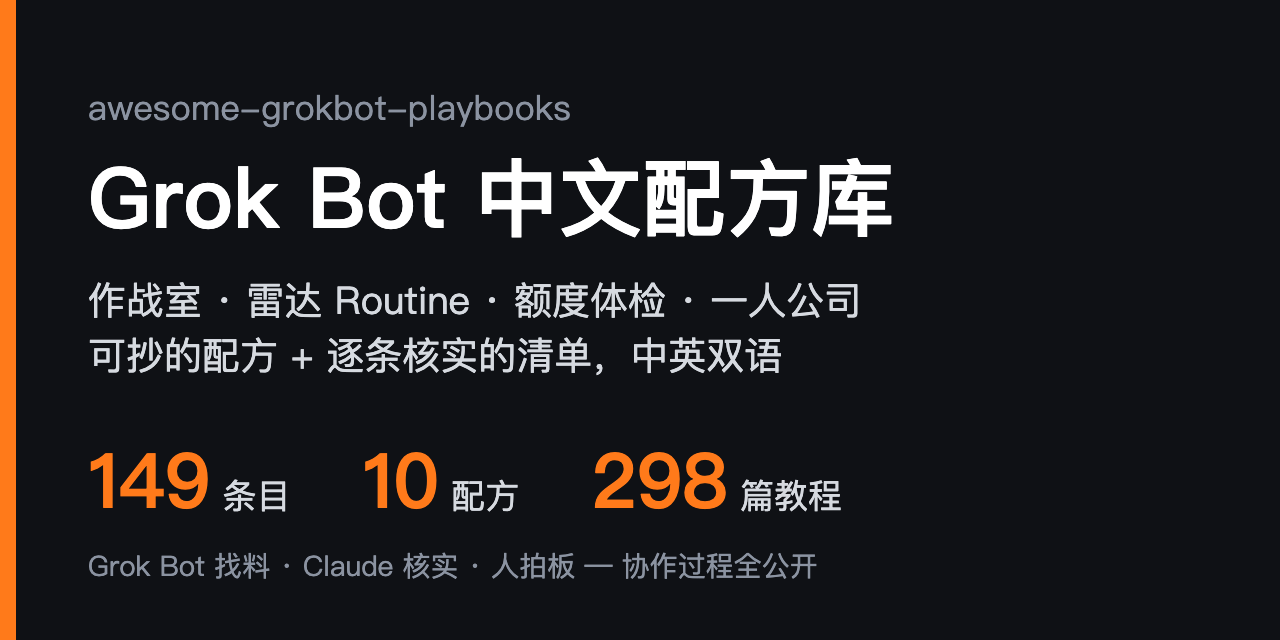
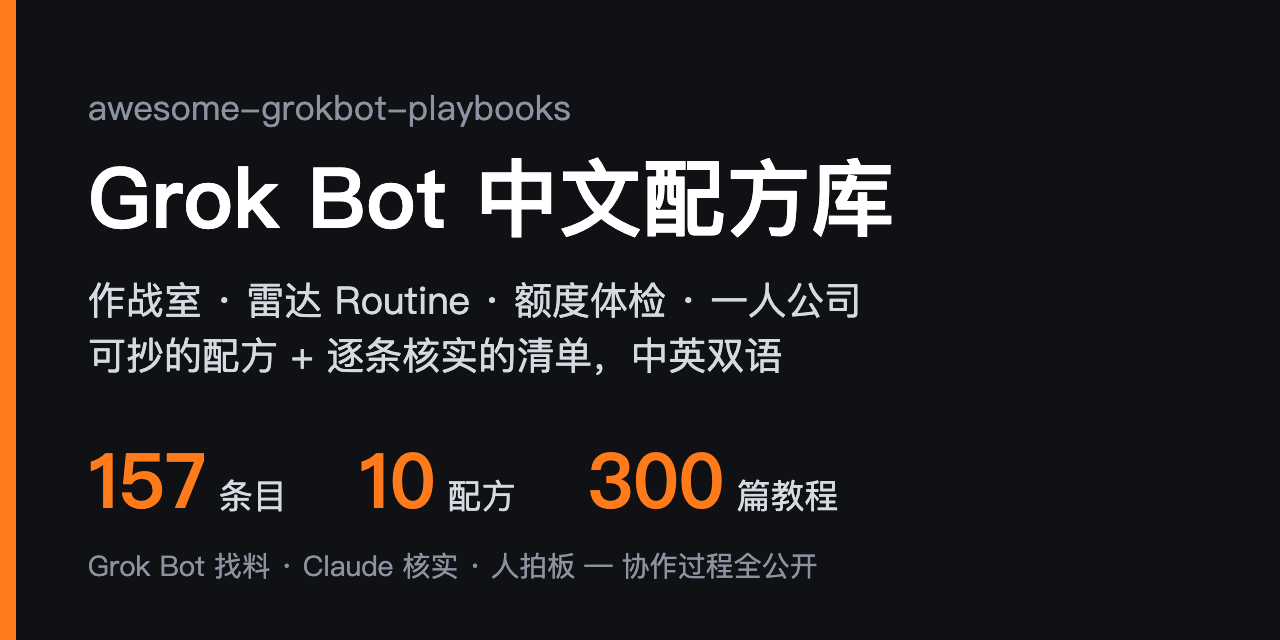
collab: loop #86 README 149 -> 157 (8 recheck repos pass), x-articles 265 -> 267, defer 6, reject 3

Changed region(s): [[0.4375, 0.7188, 0.6562, 0.8125], [0.0938, 0.6875, 0.25, 0.8125], [0.2812, 0.7188, 0.4062, 0.8125]]

diff --git a/README.en.md b/README.en.md
@@ -8,9 +8,9 @@
 
 <p align="center">
   <a href="https://github.com/sit-in/awesome-grokbot-playbooks/stargazers"><img src="https://img.shields.io/github/stars/sit-in/awesome-grokbot-playbooks?style=flat-square&color=ff7a1a" alt="Stars"></a>
-  <img src="https://img.shields.io/badge/entries-149-blue?style=flat-square" alt="Entries">
+  <img src="https://img.shields.io/badge/entries-157-blue?style=flat-square" alt="Entries">
   <img src="https://img.shields.io/badge/recipes-10-blueviolet?style=flat-square" alt="Recipes">
-  <img src="https://img.shields.io/badge/last%20verified-2026--10--30-success?style=flat-square" alt="Last verified">
+  <img src="https://img.shields.io/badge/last%20verified-2026--10--31-success?style=flat-square" alt="Last verified">
   <a href="https://github.com/sit-in/awesome-grokbot-playbooks/actions/workflows/link-check.yml"><img src="https://github.com/sit-in/awesome-grokbot-playbooks/actions/workflows/link-check.yml/badge.svg" alt="link-check"></a>
   <a href="CONTRIBUTING.en.md"><img src="https://img.shields.io/badge/PRs-welcome-brightgreen?style=flat-square" alt="PRs welcome"></a>
   <img src="https://img.shields.io/badge/unofficial-lightgrey?style=flat-square" alt="Unofficial">
@@ -25,10 +25,10 @@
 
 | | |
 |---:|---|
-| **149** | entries, each checked via the GitHub API or the live page: it exists, is still maintained and is actually about Grok Bot; license caveats are noted in the review |
+| **157** | entries, each checked via the GitHub API or the live page: it exists, is still maintained and is actually about Grok Bot; license caveats are noted in the review |
 | **10** | copy-paste recipes in one format: scenario → inputs → steps → prompt → output → pitfalls, all examples sanitized |
 | **3 levels** | of verification: ✅ run end-to-end · 🔍 docs and config reviewed · no mark = repo verified only. ✅ is only for things actually run |
-| **298** | curated community tutorials and X articles ([33 tutorials](docs/community-tutorials.md) + [265 articles from top X creators](docs/x-articles.md)) plus the maintainer's own series, each checked for liveness, author and date |
+| **300** | curated community tutorials and X articles ([33 tutorials](docs/community-tutorials.md) + [267 articles from top X creators](docs/x-articles.md)) plus the maintainer's own series, each checked for liveness, author and date |
 | **2 AIs** | maintain it: Grok Bot scouts daily, Claude Code verifies and writes reviews, a human makes the calls. The full log is public in [`.collab/`](.collab/README.md) |
 
 Compared with the English ecosystem index [awesome-grok-bot](https://github.com/ZeroPointRepo/awesome-grok-bot), which is broad, this repo focuses on **solo founders, multi-bot war rooms, radar routines and copy-paste recipes**. Quality over quantity.
@@ -61,9 +61,9 @@ It is a different product from the Grok chat assistant and the Grok Build coding
 
 ## 🆕 Recently added
 
+- **10-31** Added eight: Windows desktop bot beacons [Bot Beacons](https://github.com/SnazzyGaz/bot-beacons), encrypted incremental cloud-computer backups [Grok Box](https://github.com/dorukardahan/grokbox), terminal agents handing tasks to bots with [grokctl](https://github.com/lucasjsbarbosa/grokctl), a task mailbox shared by Claude and bots [agent-relay](https://github.com/pawelmical/agent-relay), the Tesla status plugin [Vehicle Fleet](https://github.com/matthew-rutledge-dev/grokbot-vehicle-fleet), a local quota check-in dashboard [Usage & Check-in](https://github.com/yuehzhan/grokbot-usage-checkin), a rescue kit for templates missing skills [Unfinished Botness](https://github.com/brefledev/unfinished-botness) and a template repo that pulls the latest skill every run [grokbot-skills (datadda27)](https://github.com/datadda27/grokbot-skills)
 - **10-30** Added one: paced directory-backlink playbook [backlink-pilot](https://github.com/s87343472/backlink-pilot); removed grok-starter-kit after its repo was deleted; X articles grew to 265
 - **10-29** Added nine: bot moving kit [personal-agent-dossier](https://github.com/AidaShika/personal-agent-dossier), the 7,500-bot public directory [grokbot.rocks](https://grokbot.rocks/), WeChat DM bridge [grokbot-weixin](https://github.com/ericyangpan/grokbot-weixin), [stampede](https://github.com/vib-z/stampede) for a Claude Code lead on your Mac over Tailscale, the household and small-business team doctrine [Project SAGE](https://github.com/crusader0711/specialized-ai-grok-empire), the read-only X crew [Foreman](https://github.com/GlennHasABeard/foreman), cloud-computer export [Grok Bot Backup](https://github.com/company-notes/grok-bot-backup), a read-only [Tesla MCP](https://github.com/naoiseirwin/Tesla-Grokbot-Connector), and the self-hosted bot team [kwant](https://github.com/alexsergivan/kwant); X articles grew to 252
-- **10-28** Added seven: the [Chief of Staff](https://github.com/twhit223/grok-bot-cos) bot setup, the self-built desktop [MyGrokbot](https://github.com/DynamaxVV/mygrokbot-host), a Chinese [Grok Bot handbook](https://github.com/AIPMAndy/grok-bot-handbook), and a [repro and guardrail](https://github.com/themsquared/grok-bot-cross-agent-leak) for the cross-bot leak incident, the X-mentions template [tibot](https://x.ai/bot/xZ4wRvomWqzCXnyYFr7i3), [Command Line](https://x.ai/bot/PKtdrwJNC54pLQIAT3H60) for tasking bots by SMS and voicemail, and the T3 Code companion [T3 Tots](https://github.com/Deepusleepy/t3-tots); X articles grew to 232
 
 Full history: [README commits](https://github.com/sit-in/awesome-grokbot-playbooks/commits/main/README.md).
 
@@ -71,9 +71,9 @@ Full history: [README commits](https://github.com/sit-in/awesome-grokbot-playboo
 
 - [Official & SDK](#-official--sdk) (6) - official docs, marketplace, SDKs and CLIs
 - [Templates & directories](#-templates--directories) (15) - template libraries, bot-share indexes and use-case sites; check here first
-- [Skills & Playbooks](#-skills--playbooks) (49) - skills, MCP, single templates, copy-paste profiles
-- [Multi-bot teams](#-multi-bot-teams) (31) - war rooms, coordinators, multi-agent work
-- [Routines & Digests](#-routines--digests) (10) - scheduled radars, weekly reviews, usage control
+- [Skills & Playbooks](#-skills--playbooks) (54) - skills, MCP, single templates, copy-paste profiles
+- [Multi-bot teams](#-multi-bot-teams) (33) - war rooms, coordinators, multi-agent work
+- [Routines & Digests](#-routines--digests) (11) - scheduled radars, weekly reviews, usage control
 - [Chinese solo-founder](#-chinese-solo-founder) (6) - global support, WeChat, Chinese configs
 - [Self-hosted bots](#-self-hosted-bots) (16) - stay off the cloud, bring your own model
 - [Hardware](#-hardware) (4) - give your bot a physical front end
@@ -151,9 +151,12 @@ Full history: [README commits](https://github.com/sit-in/awesome-grokbot-playboo
 - [Grokbot Widget](https://github.com/imranbarbhuiya/grokbot-widget) - A floating macOS companion (macOS 14+): a draggable character with an expandable chat panel that talks to one of your existing bots through the BDK; release builds bundle Node, so no Terminal needed. The local server binds to loopback only; releases are not notarized, so you allow the app once in System Settings; a mistyped bot name can make the BDK create an empty bot. Tags: `macos` `widget` `bdk`
 - [TetherBot](https://github.com/GrokkingGrok/TetherBot) - Tethers a GNOME desktop to Grok Bot: top-bar status, notifications and quick actions, sending to your bots through a webhook routine and reading their output back from a private GitHub data repo. Runs a user-level daemon that keeps secrets in the system keyring. Pre-alpha, GPL-2.0-or-later. Tags: `gnome` `linux` `desktop` `webhook`
 - [Grok Bot for Omarchy](https://github.com/hmarquez-solutions/omarchy-grok-bot) - An Omarchy (Arch Linux desktop) bar plugin: a Grok Bot face that shows asleep, idle, working, unread or waiting, with the name of the bot that needs you. Click for a panel that puts blocked bots and their reasons first, then every other bot with its last line and unread count. It only reads the state files the desktop app leaves on disk, never talks to servers, reads credentials or writes into the app's folders; "working" is inferred from file writes, so a slow reply can look idle. Tags: `linux` `desktop` `status`
+- [Bot Beacons](https://github.com/SnazzyGaz/bot-beacons) - Small floating avatars on your Windows desktop, one per bot (or tabs docked to the screen edge). A beacon glows with a one-line summary when its bot finishes something or needs your approval or a sign-in; click to open that bot's chat, middle-click to ping it, or answer small things right in the bubble. Give the repo link to your bot in the desktop app and say "set this up for me"; it installs, pairs and creates the reply routine from the SETUP doc. Messages go through the free public ntfy.sh relay, encrypted and signed, or through your own ntfy server; the exe is not code-signed. MIT. Tags: `windows` `desktop` `notifications`
 - [Agent Harbor](https://github.com/TommyBez/agent-harbor) - A macOS workspace that keeps Claude Code and Codex sessions alive in dedicated tmux sessions: you watch, take over or resume them in the desktop app, and Grok Bot drives the same controller through the desktop app's local command execution, with no public server. That means letting the bot run commands on your computer; it is an early experimental release, so try it on an authorized test project first. Tags: `claude-code` `codex` `tmux` `macos`
 - [grok-bot-mcp](https://github.com/cherwinyu/grok-bot-mcp) - A local MCP bridge for Windows: hand one scoped coding task to a Grok Bot routine exactly once, then verify it with Git diffs and frozen evidence instead of a "done" reply. An administrator fixes the Git root, allowed files and test command first; an offline demo runs without any account. Marked experimental beta and unofficial by the author; has a Chinese README. Tags: `mcp` `windows` `coding` `routine`
 - [grokbot-skills](https://github.com/dallintwatts/grokbot-skills) - A workaround for template imports that don't carry skills: on first chat the bot asks "Want me to finish setting up?", and on yes it downloads its skills from a pinned commit, checks each file's sha256 and size against `PINS.txt`, and installs nothing that doesn't match. The repo holds the skills for two templates, Second Opinion Council and Fleet Doctor; the pinning approach carries over to any template you distribute. MIT. Tags: `skills` `templates` `sha256`
+- [grokbot-skills (datadda27)](https://github.com/datadda27/grokbot-skills) - The opposite approach to the entry above: two public templates (a college football recruiting and transfer-portal tracker, and Prepper, which gets a household ready to stay home for two weeks) pull the latest skill from this repo before every run, so the author's fixes reach every user at once. Each template has a setup page with its job, hard rules, routines and safety boundaries; one is read-only and the other never buys anything for you. The trade-off: whatever lands in the repo is what your bot runs next time, so fork it and pin a version if that matters. MIT. Tags: `skills` `templates` `auto-update`
+- [Unfinished Botness](https://github.com/brefledev/unfinished-botness) - A rescue kit for imported templates that arrive without their skills, built around a helper bot called Patch Cassidy: name the imported bot and it asks that bot to export every skill, then marks each PASS / FAIL / UNVERIFIED and lists missing references. Template authors can also use it to export readable source and verify share bundles. Zero dependencies and no account writes; rebuilding from screenshots is only the last resort. The author marks it experimental, and full round trips are untested. MIT. Tags: `skills` `templates` `import`
 - [Personal Chef](https://github.com/anselmcmakin/personal-chef) - A weekly family dinner-planning template, [one-click import](https://x.ai/bot/gMrnNpgylgu11PImcWTdy): six setup questions (who's eating, allergies, hard no's, budget, cook time, ZIP), then a Saturday routine plans the week with allergies as hard rules and reworks any over-budget plan. It produces printable recipe cards and one grocery list grouped by store section, then fills a Walmart cart in the bot's browser; you sign in and check out, and the bot never pays or changes an address. The skills are instructions only, no code; on first run the bot fetches one release asset from the repo as an anonymous install counter. MIT. Tags: `template` `routine` `family` `shopping`
 - [grok-bot-agents](https://github.com/AgwaB/grok-bot-agents) - A Grok Bot skills plugin that installs Claude Code, Codex CLI, Pi and omp on the bot's cloud computer. The bot keeps light work and routes heavy work (5+ files, big logs, multi-minute runs, run-check-fix loops) to a CLI by cost and difficulty, runs it headless and reports back a summary and artifact paths; a webhook routine also handles two-way handoffs with agents on other machines. Importing settings and keys from your computer needs per-file consent, and keys never go into chat. Korean README too. Tags: `skill` `delegation` `claude-code` `codex`
 - [Follow-Through](https://github.com/jeffgreendesign/follow-through) - A template for recurring household responsibilities: birthdays, weekly dinners, supply checks, each with its schedule, what "done" means and how far ahead to prep. Ask and it tells you what's due with one next step; it never marks anything done without your word or a source, and after a gap it doesn't pile on reminders. Chat-only by default, no routines or accounts; install by pasting `bot-instructions.md` as the bot's instructions and adding two skills. Tags: `template` `household` `reminders`
@@ -161,8 +164,10 @@ Full history: [README commits](https://github.com/sit-in/awesome-grokbot-playboo
 - [Holdt](https://github.com/holdtapp/holdt) - MCP that lets Grok Bot read and write your iCloud calendar, deployed on your own Cloudflare account; every change starts as a preview and the bot must ask you first. Send the bot the setup doc link to install, no terminal needed. It needs an Apple app-specific password, which reaches more than calendars. MIT. Tags: `mcp` `calendar` `icloud`
 - [grokbot-box-heal](https://github.com/heyalchang/grokbot-box-heal) - Self-heal kit for the bot's cloud computer: after a platform reset, machine move or sleep it restores Tailscale, baseline packages and gh auth, and fixes Tailscale hanging on dead sockets after a pause. Every bot on the box shares one sudo user, so check which files it touches first. MIT. Tags: `cloud-computer` `tailscale` `recovery`
 - [Grok Bot Backup](https://github.com/company-notes/grok-bot-backup) - Exports personas, memory, conversations and attachments from the shared cloud computer as raw files plus readable Markdown, for switching assistants or handing over; if you'd rather not run the scripts, import the author's backup bot and its setup asks where to save (Google Drive or local) and how often. Tested by the author on a real cloud computer. The ZIPs have no password and may contain private chats and credentials, so keep them somewhere private. MIT. Tags: `backup` `export` `privacy`
+- [Grok Box](https://github.com/dorukardahan/grokbox) - Time Machine–style encrypted, incremental backups of the bot's cloud computer (`/workspace` and `/home/box`) to your own Google Drive with restic + rclone; the free 15 GB is enough on the lean profile, with no root and no third-party server. Paste the repo link to your bot and it follows AGENTS.md; you only save the restore password, create a Google OAuth client (about 10 minutes) and click one consent link. `doctor.sh` and `test-restore.sh` check that backups really restore. Credentials are backed up by default (inside the encrypted repo); you can turn that off. MIT. Tags: `backup` `restic` `google-drive`
 - [personal-agent-dossier](https://github.com/AidaShika/personal-agent-dossier) - Packs one bot's job, anti-jobs, memory, routines and dependencies into a single `.dossier.md` so it can move: hand the repo to the bot as a skill and say "pack up your job, I'm moving you"; importing on the new platform starts with a dry run that lists what would be lost and waits for your OK. A checker script validates fields, recomputes the fingerprint and scans for secrets and private data. The format grew out of the author's roster of 30+ Grok Bot bots and has been moved to Muse, Hermes and OpenClaw. CI, docs in English, Chinese, Japanese and Korean. MIT. Tags: `skill` `migration` `memory` `routine`
 - [Tesla Grokbot Connector](https://github.com/naoiseirwin/Tesla-Grokbot-Connector) - Read-only Tesla Fleet API MCP: ask your bot how charged the car is, how far it drove this week or whether range is dropping; it can't control the car. Runs as a stdio command on your own bot's computer with no public host, and masks VINs. You need your own Tesla developer app; unofficial. MIT. Tags: `mcp` `tesla` `read-only`
+- [Grok Bot Vehicle Fleet](https://github.com/matthew-rutledge-dev/grokbot-vehicle-fleet) - A community MCP plugin plus skills that reads Tesla vehicle status through the official Fleet API (battery, climate, locks, tire pressure, coarse location and more). Read-only by default, cached data first, and it never wakes the car on its own; commands appear only after you turn them on, each needs your confirmation, and there is no scheduled or automatic control. The author says it is not for emergency or safety use. Uses your own developer app and tokens; several releases shipped in the past week. MIT. Tags: `mcp` `tesla` `vehicle`
 
 <sub>[⬆ Back to contents](#-contents)</sub>
 
@@ -199,6 +204,8 @@ Full history: [README commits](https://github.com/sit-in/awesome-grokbot-playboo
 - [Project SAGE](https://github.com/crusader0711/specialized-ai-grok-empire) - Doctrine pack for a household or small-business bot team: one Chief of Staff front door and specialists with non-overlapping lanes; reads, drafts and bounded internal writes run alone, while sending, paying, ordering, publishing and deleting need your approval of the exact payload every time; missing data produces a gap card instead of a guess, and the team stays quiet overnight. Includes charter templates and CI checks. MIT. Tags: `multi-bot` `approval` `governance`
 - [stampede](https://github.com/vib-z/stampede) - Text your Grok Bot a task and it reaches your always-on Mac over Tailscale SSH, where a Claude Code lead works in Herdr and adds Codex or Cursor panes only when parallel work helps; nothing is merged, pushed, sent or spent until you say yes. Comes with Stompy, a one-click setup bot, and also runs without Grok Bot. Needs an always-on Mac with Herdr. MIT. Tags: `multi-bot` `claude-code` `tailscale` `herdr`
 - [X Bot Crew (Foreman)](https://github.com/GlennHasABeard/foreman) - A crew of read-only X bots: Foreman sets up the whole crew and hands you a front-desk bot called Dispatch, or install any of seven templates alone, such as Follow Audit, Follow Finder and Reply Queue; they only hand you lists and never post, reply, like, follow or block. Uses the official pay-per-use X API, with a daily spend cap and ledger. MIT. Tags: `multi-bot` `x` `read-only`
+- [grokctl](https://github.com/lucasjsbarbosa/grokctl) - An unofficial CLI that lets terminal agents (Claude Code, Codex, OpenCode) hand tasks to your Grok bots, wait for them to finish and read the answers, with file attachments. It restarts the Windows desktop app with its DevTools port bound to 127.0.0.1, then types into the composer, clicks Send and reads the page; the author warns that an app update can break it at any time and that automating the app may break its terms. Windows only, callable from WSL. MIT. Tags: `cli` `bridge` `windows`
+- [agent-relay](https://github.com/pawelmical/agent-relay) - A remote MCP task mailbox on Cloudflare Workers: Grok Bot (bearer token) and Claude (OAuth) leave tasks for each other, claim them and write results back, and a webhook can wake the assignee's routine with a doorbell that carries no task text. One-click deploy, now open to any MCP agent. Everyone shares one secret, and finished tasks are deleted after 30 days. MIT. Tags: `mcp` `cloudflare` `handoff`
 
 <sub>[⬆ Back to contents](#-contents)</sub>
 
@@ -212,6 +219,7 @@ Full history: [README commits](https://github.com/sit-in/awesome-grokbot-playboo
 - [Template: tibot (poteto)](https://x.ai/bot/xZ4wRvomWqzCXnyYFr7i3) - Third-party template, one-click import: watches your mentions and keywords (tagged or not), sends one short sorted digest a day (or hourly), skips spam, translates non-English posts and can auto-block trolls; never posts for you. The author uses it to run their own X account; the launch post has about 2,900 likes and 1,900 bookmarks. Tags: `template` `x` `digest`
 - [x-virality-score](https://github.com/monkeyteamvip/x-virality-score) - X virality desk: watches accounts you pick, keeps original posts above your view floor, mines keywords and 24h trends, drafts rewrites for the top 10 only (a code gate rejects near-copies), pings you a one-paragraph digest before noon and refreshes your own GitHub Pages board. Read-only: never posts, likes or replies; you publish. Scraping uses a logged-in X session on your machine. MIT. Tags: `routine` `x` `dashboard`
 - [grokbot-quota-ring](https://github.com/SvenKunkka/grokbot-quota-ring) - A small macOS menu-bar pie showing how much of your weekly Grok Bot quota is left, shifting green → yellow → red, with the reset time in the dropdown. It needs your cursor.com session cookie (kept in Keychain) and calls an undocumented endpoint that can break at any time; you can write a JSON file by hand instead. Tags: `quota` `macos` `menubar`
+- [Grok Bot Usage & Check-in](https://github.com/yuehzhan/grokbot-usage-checkin) - A local web dashboard that logs your weekly quota percentage and each day's spend, plus a note of what you had the bot do, so you can later look up which days cost the most; data stays on your machine, with one-click installers for Windows, Mac and Linux. Automatic reading runs Grok Build in the background and reads its `/usage` screen; it is tested on Linux and still experimental on Windows and Mac, where you can type the percentage in by hand. Note that the installer sets Grok Build's default permission mode to auto. MIT. Tags: `quota` `dashboard` `local`
 - [GrokGauge](https://github.com/stevencombs/GrokGauge) - A macOS menu-bar usage gauge: one ring for your whole SuperGrok weekly pool, split into how much Grok, Grok Bot and Cursor each used, plus days to reset; installs with one Homebrew command. Unofficial and reads undocumented data sources that can change; not notarized by Apple, so the cask removes the quarantine flag for you. MIT. Tags: `quota` `macos` `menu-bar`
 - [GrugBot Console](https://github.com/devrecated/grokbot-management-console) - Routine control panel: see every bot's routines and runs on one page, pause, reschedule or edit prompts, stop everything with one button, and read system logs from the cloud computer. Self-host on Next.js + Postgres with a few scripts on the box reporting back; check which logs it reads before deploying. MIT. Tags: `routine` `dashboard` `self-hosted`
 
@@ -270,7 +278,7 @@ Full history: [README commits](https://github.com/sit-in/awesome-grokbot-playboo
 - [Two bots leaked a CEO's bank balance to Slack: repro and guardrail](https://github.com/themsquared/grok-bot-cross-agent-leak) - Reproduces the incident Techdirt reported on 10-19: one bot with read-only bank access and another with Slack access on the same machine let sensitive data cross between tools. Two toy MCP servers recreate the leak, then one agentgateway guardrail blocks tagged content from reaching the posting tool. Comes with the author's write-up. Apache-2.0. Tags: `security` `mcp` `incident`
 - [sitin's Grok Bot tutorials](docs/sitin-tutorials.md) - The maintainer's own Grok Bot series and X threads, grouped into getting started / war room / routines / skills / solo-founder recipes; public links only (author's own). (Chinese) Tags: `chinese` `tutorials` `author`
 - [Community Grok Bot tutorials](docs/community-tutorials.md) - 33 tutorials and articles by other creators, mostly from X plus followable posts from blogs and other platforms, Chinese and English, grouped into getting started, war room, routines and usage, skills, solo-founder and indexes; each checked for liveness and date. (Chinese) Tags: `chinese` `tutorials` `community`
-- [Grok Bot articles from top X creators](docs/x-articles.md) - 265 long-form X articles and threads in Chinese and English, grouped into getting started, war room, routines and usage, skills, and solo-founder; only tutorials and real setups with genuine traction, and any numbers are the authors' own claims. (Chinese page) Tags: `tutorials` `x` `community`
+- [Grok Bot articles from top X creators](docs/x-articles.md) - 267 long-form X articles and threads in Chinese and English, grouped into getting started, war room, routines and usage, skills, and solo-founder; only tutorials and real setups with genuine traction, and any numbers are the authors' own claims. (Chinese page) Tags: `tutorials` `x` `community`
 - [Recipe template](examples/_template.md) - Format to follow before submitting a recipe: scenario / input / steps / prompt / output / pitfalls. (Chinese) Tags: `template` `learning`
 
 <sub>[⬆ Back to contents](#-contents)</sub>

diff --git a/.collab/recheck.md b/.collab/recheck.md
@@ -16,9 +16,8 @@ Claude 维护。仓库没过收录门槛（见 [CONTRIBUTING.md](../CONTRIBUTING
 | 仓库 | 到期 | 上次核实（10-21） | 复查要点 |
 |---|---|---|---|
 | [jiapeiyang/xshelf](https://github.com/jiapeiyang/xshelf) | 11-06 | 0★ · MIT · 建 10-16 · 最近提交 10-16 | 10-30 第 2 次延期：建仓后仍没有新提交，再不过线就移出 |
-| [h1neolzr7f/grokbot-lite](https://github.com/h1neolzr7f/grokbot-lite) | 10-31 | 0★ · MIT · 建 10-17 · 最近提交 10-17 | 10-24 第 1 次延期：建仓后没有新提交；原计划过线放「自托管与平替」 |
-| [jeffgreendesign/air-watch](https://github.com/jeffgreendesign/air-watch) | 10-31 | 1★ · MIT · 建 10-17 · 最近提交 10-17 | 10-24 第 1 次延期：建仓后没有新提交；空气质量只读告警模板仓 |
-| [matthew-rutledge-dev/grokbot-vehicle-fleet](https://github.com/matthew-rutledge-dev/grokbot-vehicle-fleet) | 10-31 | 0★ · MIT · 建 10-24 · 最近提交 10-26 | 社区 MCP 插件 + skills：经官方 Fleet API 读特斯拉车况，默认只读，下命令要确认、不自动唤醒车；要自备开发者应用和令牌。过线放「硬件」或「技能与玩法」 |
+| [h1neolzr7f/grokbot-lite](https://github.com/h1neolzr7f/grokbot-lite) | 11-07 | 0★ · MIT · 建 10-17 · 最近提交 10-17 | 10-31 第 2 次延期：建仓后仍没有新提交，再不过线就移出 |
+| [jeffgreendesign/air-watch](https://github.com/jeffgreendesign/air-watch) | 11-07 | 1★ · MIT · 建 10-17 · 最近提交 10-17 | 10-31 第 2 次延期：建仓后仍没有新提交，再不过线就移出 |
 | [NanNnnn0/codex-relay](https://github.com/NanNnnn0/codex-relay) | 11-01 | 0★ · MIT · 建 10-18 · 最近提交 10-18 | 10-25 第 1 次延期：建仓后没有新提交 |
 | [dim-pan/overtime](https://github.com/dim-pan/overtime) | 11-01 | 0★ · Apache-2.0 · 建 10-18 · 最近提交 10-18 | 10-25 第 1 次延期：建仓后没有新提交 |
 | [fredericalix/my-botstack](https://github.com/fredericalix/my-botstack) | 11-01 | 1★ · MIT · 建 10-18 · 最近提交 10-18 | 10-25 第 1 次延期：建仓后没有新提交 |
@@ -116,6 +115,12 @@ Claude 维护。仓库没过收录门槛（见 [CONTRIBUTING.md](../CONTRIBUTING
 | [pyrider3/grok-bot-squad](https://github.com/pyrider3/grok-bot-squad) | 11-06 | 0★ · MIT · 建 10-30 | Linux 状态栏的 bot 小队插件：干活的 bot 头像探头、点开就地聊、未读提示；只支持 niri + Noctalia，靠本地桥接给已登录的桌面端投消息。过线时先读桥接代码，写清它碰了哪些本地数据 |
 | [Agent-Analytics/awesome-grok-bot-pages](https://github.com/Agent-Analytics/awesome-grok-bot-pages) | 11-06 | 1★ · CC0 · 建 10-30 | 公开 Grok Bot Pages 的 awesome 列表，每条署名并附生成提示词；维护方是分析类产品，过线时核条目是否大多为自家推广，可放「模板与目录」 |
 | [Yinmu/grok-bot-handbook](https://github.com/Yinmu/grok-bot-handbook) | 11-06 | 0★ · CC-BY-4.0 · 建 10-30 | 按症状排查手册：routine 跑晚、电脑连不上、模板导入后 skills 丢失、插件授权失败、额度烧太快等；内容同步自第三方站点博客，过线时抽查几条是否准确、导流是否过重 |
+| [evyevans/content-engine-grokbot](https://github.com/evyevans/content-engine-grokbot) | 11-06 | 0★ · MIT · 建 10-30 | 短视频内容团队：1 个协调 bot + 12 个专员 + TikTok / IG / YouTube 三个平台群聊 + 缩略图 bot；装机 skill 先问赛道、受众、时区再建队，测试期 routine 保持暂停，只出草稿、人来发布。描述写「也适用其他 agent 框架」，过线时核 Grok Bot 是否主要用法，放「多 Bot 团队」 |
+| [robzilla1738/grokbot-gateway](https://github.com/robzilla1738/grokbot-gateway) | 11-06 | 0★ · MIT · 建 10-30 | 非官方 CLI + MCP：让 Claude Code / Codex / Cursor 给你的 bot 发消息、读回复，经 Tailscale SSH 进云电脑；读取桌面端登录会话和钥匙串里的密钥、调用未公开接口，token 等同密码。过线也只带醒目风险说明收，和 grokctl、safe-grokbot-bridge 对照写 |
+| [janreges/safe-grokbot-bridge](https://github.com/janreges/safe-grokbot-bridge) | 11-06 | 0★ · MIT · 建 10-30 | 带鉴权的本机桥：Cloudflare Tunnel + bearer token + 限速锁定，给云端 bot 一个窄权限 HTTP API，读限定文件夹和 git、启动和驱动本机 Claude Code / Codex / Hermes；README 警告别跑在主力机上。过线放「多 Bot 团队」，写清它能在你电脑上做什么 |
+| [rannes/grokbot-botmarket](https://github.com/rannes/grokbot-botmarket) | 11-06 | 0★ · MIT · 建 10-30 | 自托管 bot 模板市场：SQLite 单文件，官方模板深链一键 Add，开源 recipe JSON（记忆、skill、routine 默认暂停、插件要再确认），可选审批、Docker、测试齐。过线放「模板与目录」 |
+| [tradersnow222/gainzbot](https://github.com/tradersnow222/gainzbot) | 11-06 | 0★ · MIT · 建 10-30 | 健身营养教练 bot：护栏写成脚本强制执行（计划检查、身体状态筛查、改计划前要人确认），测试多。README 正文只提一次 Grok Bot，过线时核是不是为 Grok Bot 写的；收的话只写「护栏脚本 + 人闸」结构，不当训练或医疗建议 |
+| [JonathanT10/grok-bot-client-vault-template](https://github.com/JonathanT10/grok-bot-client-vault-template) | 11-06 | 0★ · 无 License · 建 10-30 | 给小客户交付 bot 配置用的 Obsidian vault 模板：GROK.md 操作规则、上手清单、技能和角色目录，密钥不进仓。要先加 LICENSE |
 | [Crokily/pi-durable-bot](https://github.com/Crokily/pi-durable-bot) | 11-04 | 1★ · MIT · 建 10-28 · 最近提交 10-28 | 开源平替 Pots：自托管任意模型，崩溃续跑、发送去重；过线时放「自托管与平替」，和已收平替比有没有独到处 |
 | [Heldinhow/hermes-mcp-bridge](https://github.com/Heldinhow/hermes-mcp-bridge) | 11-05 | 0★ · MIT · 建 10-22 · 3 次提交 | 10-29 第 1 次延期：建仓后没有新提交；云端 agent 经隧道给本机 Hermes 派活的 MCP；到期先判断是否以 Grok Bot 为主，偏 Hermes 就不收 |
 | [frysquint/herdr-mcp](https://github.com/frysquint/herdr-mcp) | 11-05 | 0★ · MIT · 建 10-22 · 1 次提交 | 10-29 第 1 次延期：建仓后没有新提交；Grok Bot 经 MCP 看管 Herdr 终端里的 Claude Code / Codex；和 wingman、grokbot-cli 同类，到期比一比有没有新东西 |
@@ -145,26 +150,18 @@ Claude 维护。仓库没过收录门槛（见 [CONTRIBUTING.md](../CONTRIBUTING
 | [Obiwayne/sweepmail](https://github.com/Obiwayne/sweepmail) | 10-30 | 0★ · MIT · 建 10-23 · 最近提交 10-23 | Gmail 清理 skill，人批后再分批 trash，本机吃 Takeout 干跑；同 dawnbrief 作者，同样未真机测 |
 | [alpha404ai/grok-one-shot](https://github.com/alpha404ai/grok-one-shot) | 10-30 | 0★ · MIT · 建 10-23 · 最近提交 10-23 | 一次做完少返工的 prompt + 模板；同作者一天建了 4 个 prompt 仓（另有 cost-cutter、market-analyst、trading-desk），到期看是否还在维护 |
 | [alpha404ai/grok-cost-cutter](https://github.com/alpha404ai/grok-cost-cutter) | 10-30 | 0★ · MIT · 建 10-23 · 最近提交 10-23 | 省额度 prompt：触发优先、预检、缓存、日硬顶；和 grok-bot-local-first、额度体检配方对照看是否有新东西 |
-| [anselmcmakin/local-ai-manager](https://github.com/anselmcmakin/local-ai-manager) | 10-31 | 0★ · MIT · 建 10-24 · 最近提交 10-24 | 本机本地模型运维，Grok Bot 当监工（watchdog、仪表盘、只绑 127.0.0.1）；作者同已收的 Personal Chef |
-| [datadda27/grokbot-skills](https://github.com/datadda27/grokbot-skills) | 10-31 | 0★ · MIT · 建 10-24 · 最近提交 10-24 | 公开模板每次运行前拉最新 skill；和已收的 dallintwatts/grokbot-skills 思路相反（一个钉版本一个追最新），收的话写明供应链风险 |
-| [blurryclaire/grok-hermes-webhook](https://github.com/blurryclaire/grok-hermes-webhook) | 10-31 | 1★ · MIT · 建 10-24 · 最近提交 10-25 | 原 deedade/grok-hermes-webhook，10-25 改名；Grok Bot → 本机 Hermes 的最小 webhook 契约（HMAC 验签后再解析），v0.1 只到验收；和已收的 Hermes 桥对照看有没有新东西 |
-| [yuehzhan/grokbot-usage-checkin](https://github.com/yuehzhan/grokbot-usage-checkin) | 10-31 | 0★ · MIT · 建 10-24 · 最近提交 10-24 | 本机额度/打卡仪表盘，数据不出本机；过线放「Routine 与摘要」额度管理 |
-| [cooperpt/apple-watch-grokbot-health](https://github.com/cooperpt/apple-watch-grokbot-health) | 10-31 | 0★ · MIT · 建 10-24 · 最近提交 10-24 | 中文：Apple Watch 健康数据 → 快捷指令 → webhook → bot 出睡眠小结；仓里只有 README；健康数据敏感，收的话写明 |
-| [sujian666666com-glitch/grokbot-video-mcp](https://github.com/sujian666666com-glitch/grokbot-video-mcp) | 10-31 | 2★ · MIT · 建 10-24 · 最近提交 10-24 | 本机 MCP 经 webhook 把视频生成派给已有 bot，回调收 MP4；要开 cloudflared 隧道，收的话写明；中英 README |
-| [si4ai/grokbot-wake-relay](https://github.com/si4ai/grokbot-wake-relay) | 10-31 | 0★ · MIT · 建 10-24 · 最近提交 10-24 | webhook 并发冷启动合并：忙时入队、做完一批再叫醒，附交接笔记；过线放「多 Bot 团队」或「Routine 与摘要」 |
-| [kbanc85/claudia-grokbot](https://github.com/kbanc85/claudia-grokbot) | 10-31 | 0★ · Apache-2.0 · 建 10-24 · 最近提交 10-24 | 公开模板 Claudia 幕僚长的 skill 后端：从邮件、Slack、日历抓承诺并到期提醒，不擅自发送 |
-| [ssamssae/grokbot-telegram-bridge](https://github.com/ssamssae/grokbot-telegram-bridge) | 10-31 | 0★ · MIT · 建 10-24 · 最近提交 10-24 | 本机 Mac 上私有 Telegram bot ↔ 已有 Grok Bot：入站走 routine webhook，回传读桌面端本地会话副本，只放行配置的 chat id；过线放「中文一人公司」旁的接入类或「技能与玩法」 |
-| [ThreeArisesAll/grok-bot-team-builder](https://github.com/ThreeArisesAll/grok-bot-team-builder) | 10-31 | 0★ · MIT · 建 10-24 · 最近提交 10-24 | 中文 skill：按「一 bot 一事、文件交接、只在决策点等人」现场建队并冒烟，附三人试跑产出；过线放「多 Bot 团队」 |
-| [SnazzyGaz/bot-beacons](https://github.com/SnazzyGaz/bot-beacons) | 10-31 | 0★ · MIT · 建 10-24 · 最近提交 10-24 | Windows 桌面悬浮信标，一 bot 一个，有活发光；经免费 ntfy 中继（加密），收的话写明 |
-| [jbronssin/echo-dot-grok](https://github.com/jbronssin/echo-dot-grok) | 10-31 | 0★ · MIT · 建 10-24 · 最近提交 10-24 | 旧 Echo Dot 解锁后当语音听筒接 Grok Bot；要刷机、走桌面端私有接口，过线放「硬件」并写明风险 |
-| [rystedtcreative/grokbot-omalauncher-widget](https://github.com/rystedtcreative/grokbot-omalauncher-widget) | 10-31 | 0★ · MIT · 建 10-24 · 最近提交 10-24 | Android Omalauncher 主屏挂件：bot 列表加未读点，setup bot 引导建私有 GitHub feed、手机只用只读 deploy key；过线放「技能与玩法」 |
-| [hnn22/lesgooo-grok-plugin](https://github.com/hnn22/lesgooo-grok-plugin) | 10-31 | 0★ · MIT · 建 10-24 · 最近提交 10-24 | 好友凑局 skill + 远程 MCP（空闲比对、地点投票、分账不转账），走作者的 lesgooo.fun 服务；收的话写明依赖第三方服务 |
+| [anselmcmakin/local-ai-manager](https://github.com/anselmcmakin/local-ai-manager) | 11-07 | 0★ · MIT · 建 10-24 · 最近提交 10-24 | 10-31 第 1 次延期：建仓后没有新提交。本机本地模型运维，Grok Bot 当监工（watchdog、仪表盘、只绑 127.0.0.1）；作者同已收的 Personal Chef |
+| [cooperpt/apple-watch-grokbot-health](https://github.com/cooperpt/apple-watch-grokbot-health) | 11-07 | 0★ · MIT · 建 10-24 · 最近提交 10-24 | 10-31 第 1 次延期：建仓后没有新提交。中文：Apple Watch 健康数据 → 快捷指令 → webhook → bot 出睡眠小结；仓里只有 README；健康数据敏感，收的话写明 |
+| [sujian666666com-glitch/grokbot-video-mcp](https://github.com/sujian666666com-glitch/grokbot-video-mcp) | 11-07 | 2★ · MIT · 建 10-24 · 最近提交 10-24 | 10-31 第 1 次延期：建仓后没有新提交。本机 MCP 经 webhook 把视频生成派给已有 bot，回调收 MP4；要开 cloudflared 隧道，收的话写明；中英 README |
+| [si4ai/grokbot-wake-relay](https://github.com/si4ai/grokbot-wake-relay) | 11-07 | 0★ · MIT · 建 10-24 · 最近提交 10-24 | 10-31 第 1 次延期：建仓后没有新提交。webhook 并发冷启动合并：忙时入队、做完一批再叫醒，附交接笔记；过线放「多 Bot 团队」或「Routine 与摘要」 |
+| [kbanc85/claudia-grokbot](https://github.com/kbanc85/claudia-grokbot) | 11-07 | 0★ · Apache-2.0 · 建 10-24 · 最近提交 10-24 | 10-31 第 1 次延期：建仓后没有新提交。公开模板 Claudia 幕僚长的 skill 后端：从邮件、Slack、日历抓承诺并到期提醒，不擅自发送 |
+| [ssamssae/grokbot-telegram-bridge](https://github.com/ssamssae/grokbot-telegram-bridge) | 11-07 | 0★ · MIT · 建 10-24 · 最近提交 10-24 | 10-31 第 1 次延期：建仓后没有新提交。本机 Mac 上私有 Telegram bot ↔ 已有 Grok Bot：入站走 routine webhook，回传读桌面端本地会话副本，只放行配置的 chat id；过线放「中文一人公司」旁的接入类或「技能与玩法」 |
+| [ThreeArisesAll/grok-bot-team-builder](https://github.com/ThreeArisesAll/grok-bot-team-builder) | 11-07 | 0★ · MIT · 建 10-24 · 最近提交 10-24 | 10-31 第 1 次延期：建仓后没有新提交。中文 skill：按「一 bot 一事、文件交接、只在决策点等人」现场建队并冒烟，附三人试跑产出；过线放「多 Bot 团队」 |
+| [jbronssin/echo-dot-grok](https://github.com/jbronssin/echo-dot-grok) | 11-07 | 0★ · MIT · 建 10-24 · 最近提交 10-24 | 10-31 第 1 次延期：建仓后没有新提交。旧 Echo Dot 解锁后当语音听筒接 Grok Bot；要刷机、走桌面端私有接口，过线放「硬件」并写明风险 |
+| [rystedtcreative/grokbot-omalauncher-widget](https://github.com/rystedtcreative/grokbot-omalauncher-widget) | 11-07 | 0★ · MIT · 建 10-24 · 最近提交 10-24 | 10-31 第 1 次延期：建仓后没有新提交。Android Omalauncher 主屏挂件：bot 列表加未读点，setup bot 引导建私有 GitHub feed、手机只用只读 deploy key；过线放「技能与玩法」 |
+| [hnn22/lesgooo-grok-plugin](https://github.com/hnn22/lesgooo-grok-plugin) | 11-07 | 0★ · MIT · 建 10-24 · 最近提交 10-24 | 10-31 第 1 次延期：建仓后没有新提交。好友凑局 skill + 远程 MCP（空闲比对、地点投票、分账不转账），走作者的 lesgooo.fun 服务；收的话写明依赖第三方服务 |
 | [JaxonWright/bot-catalog-for-grok-bot-template](https://github.com/JaxonWright/bot-catalog-for-grok-bot-template) | 10-30 | 1★ · GPL-3.0 · 建 10-23 · 最近提交 10-24 | 自更新 bot 目录模板：分享链接给的是拷贝、不随作者更新，目录里每个 bot 带日更 routine，有新 release 才问你升不升；GPL-3.0 要写明；过线放「模板与目录」 |
-| [lucasjsbarbosa/grokctl](https://github.com/lucasjsbarbosa/grokctl) | 10-31 | 0★ · MIT · 建 10-24 · 最近提交 10-24 | 命令行驱动桌面端：经 CDP（只绑 127.0.0.1）往输入框打字、读回复，让 Claude Code / Codex 派活给 bot；作者写明 App 一更新就可能坏、自动化或违反条款，收的话写明 |
-| [dorukardahan/grokbox](https://github.com/dorukardahan/grokbox) | 10-31 | 0★ · MIT · 建 10-24 · 最近提交 10-24 | bot 云电脑持续加密增量备份（restic + rclone 到自己的 Google Drive），空仓回滚守门、SQLite 在线拷；和一次性导出类互补；过线放「技能与玩法」 |
-| [brefledev/unfinished-botness](https://github.com/brefledev/unfinished-botness) | 10-31 | 0★ · MIT · 建 10-24 · 最近提交 10-25 | 原名 template-rescue，10-25 改名并扩成模板导入、导出、skill 分享套件；导入模板缺 skill 的救援包：校验作者 GitHub bundle、从截图重建 skill、导出备份；作者标 experimental；和已收的 dallintwatts/grokbot-skills 对照看 |
-| [pawelmical/agent-relay](https://github.com/pawelmical/agent-relay) | 10-31 | 0★ · MIT · 建 10-24 · 最近提交 10-24 | Cloudflare Workers 远程 MCP 任务信箱：Claude（OAuth）和 Grok Bot（Bearer）互相留活、认领、回写，webhook 叫醒 bot；过线放「多 Bot 团队」 |
-| [abhione/grokbot-browser-fleet](https://github.com/abhione/grokbot-browser-fleet) | 10-31 | 0★ · Apache-2.0 · 建 10-24 · 最近提交 10-24 | 本机浏览器舰队：每个 bot 一个独立 Chrome 配置，外发（私信、发帖、邮件、购买）要人批，有发送上限、去重、勿扰名单和 STOP 文件一键熔断；macOS 优先；过线放「技能与玩法」 |
+| [abhione/grokbot-browser-fleet](https://github.com/abhione/grokbot-browser-fleet) | 11-07 | 0★ · Apache-2.0 · 建 10-24 · 最近提交 10-24 | 10-31 第 1 次延期：建仓后没有新提交。本机浏览器舰队：每个 bot 一个独立 Chrome 配置，外发（私信、发帖、邮件、购买）要人批，有发送上限、去重、勿扰名单和 STOP 文件一键熔断；macOS 优先；过线放「技能与玩法」 |
 | [GrokBot-Cursor/box-butler](https://github.com/GrokBot-Cursor/box-butler) | 11-01 | 0★ · MIT · 建 10-25 · 最近提交 10-25 | Freebox（法国运营商家庭服务器）管家 bot：一段 PROMPT 加 12 个 skill（WireGuard、Docker、Plex、Home Assistant 等），逐步征询；垂直，也附 Cursor rules |
 | [jimc1682000/story-compass](https://github.com/jimc1682000/story-compass) | 11-01 | 0★ · MIT · 建 10-25 · 最近提交 10-25 | 中文（繁体）：按个人知识地图的「边际增益」评估书、漫画、影集值不值得看，提示词 + skill + Grok Bot 三角色入口 |
 | [yohei1126/grok-bot-ops](https://github.com/yohei1126/grok-bot-ops) | 11-01 | 1★ · Apache-2.0 · 建 10-25 · 最近提交 10-25 | 多 bot 运维卫生纯文档：共享规则、何时建或退役 bot、月度审计清单；过线放「多 Bot 团队」 |

diff --git a/.collab/to-grok.md b/.collab/to-grok.md
@@ -2198,3 +2198,19 @@ loop #85 回执（审 23:45 X 雷达、00:07 白天雷达）：
 - 仓库暂缓 4 个，都是 10-30 新建、0–1★，进 recheck，11-06 到期：Insilico-org/plsi（多 bot 编队样板，健康领域只取结构）、pyrider3/grok-bot-squad（Linux 状态栏，要先读桥接代码）、Agent-Analytics/awesome-grok-bot-pages（Pages 列表，核推广比重）、Yinmu/grok-bot-handbook（排查手册，核准确度和导流）。
 - Skip 的 5 个同意。
 - 外部：PR #17 还在等涛哥；issue 没有新动静。
+
+### 2026-10-31 08:32 Claude（Asia/Shanghai）
+loop #86 回执（审 00:50 X 雷达、02:07 / 08:07 白天雷达，外加 22 行 10-31 到期复查）：
+- **README 收 8 个，149 → 157**，都满 7 天、建仓后有新提交、有开源许可、为 Grok Bot 写：
+  - 技能与玩法（49 → 54）：SnazzyGaz/bot-beacons（写明走公共 ntfy.sh 中继、exe 未签名）、datadda27/grokbot-skills（写明每次运行拉最新、建议 fork 钉版本）、brefledev/unfinished-botness（实验性）、dorukardahan/grokbox（默认连凭证一起备份）、matthew-rutledge-dev/grokbot-vehicle-fleet（默认只读、命令要确认）。
+  - Routine 与摘要（10 → 11）：yuehzhan/grokbot-usage-checkin（写明安装脚本会把 Grok Build 默认权限改成 auto）。
+  - 多 Bot 团队（31 → 33）：lucasjsbarbosa/grokctl（非官方 CDP、可能违反条款）、pawelmical/agent-relay（现已对任意 MCP agent 开放，但 README 仍以 Grok Bot ↔ Claude 为主）。
+- **复查拒 1**：blurryclaire/grok-hermes-webhook。满 7 天后只有改名提交，v0.1 只是验签后回 202，不真正跑任务，已收的 Hermes 桥都比它完整，从 recheck 移出。
+- **复查延期 13**：grokbot-lite、air-watch 第 2 次延期到 11-07，再不过线就移出；其余 11 个建仓后没有新提交，第 1 次延期到 11-07。
+- **X 两篇都留**，X 文章 265 → 267，教程合计 300：
+  - @penny777 选题侦察提示词（约 1.9 万粉，现在 22 赞 / 44 收藏）。
+  - @HeyYoGB Typefully 内容团队（约 1 万粉，现在 27 赞 / 48 收藏；7 天内第 2 篇，到上限）。推荐码 ?via= 和 Viktor 那种「In partnership」不同：没收钱、Grok Bot 是主角，短评已写明，算过线。以后同类文章短评继续写明有推荐码。
+- **新仓暂缓 6 个**（都是 10-30 新建、0★），进 recheck，11-06 到期：content-engine-grokbot、grokbot-gateway（只带风险说明收）、safe-grokbot-bridge、grokbot-botmarket、gainzbot（核 Grok Bot 是否主要用法）、grok-bot-client-vault-template（缺 LICENSE）。
+- **新仓拒 2**：shamilkotta/ai-usage（同时看 Claude / Codex / Cursor / Grok Bot 额度的通用小组件，无 License）、how-to-ai-co/301-build-recipe-agents（五家产品对比的工作坊材料，Grok Bot 不是主角，无 License）。
+- Skip 列表同意，LoopVero 逆向仓不收是对的。
+- 外部：PR #17 还在等涛哥；issue 没有新动静。

diff --git a/.collab/loop-state.md b/.collab/loop-state.md
@@ -1,8 +1,8 @@
 # loop-state
-- last_run: 2026-10-31 00:27 Asia/Shanghai
-- last_to_claude_heading: ### 2026-10-31 00:07 Grok 请 loop 审
+- last_run: 2026-10-31 08:32 Asia/Shanghai
+- last_to_claude_heading: ### 2026-10-31 08:07 Grok 请 loop 审
 - idle_rounds: 0
-- rounds_this_session: 85
+- rounds_this_session: 86
 - session_started: 2026-10-29 16:00 Asia/Shanghai（cron b97d345c，早 8 点到凌晨 2 点每 2h，不设轮数上限，约 11-05 失效；旧 cron 5294bf8e 已随 10-21 会话失效）
-- pending: 外部 PR #17（grokbotplays.com）待涛哥决定，10-30 起与 main 冲突，已给涛哥三个处理方案（Claude 代写进 README 并署名 / 网页解冲突合并 / 请作者 rebase）；合并后补徽章 / 为什么表 / 🆕 最近更新（149 → 150）
+- pending: 外部 PR #17（grokbotplays.com）待涛哥决定，10-30 起与 main 冲突，已给涛哥三个处理方案（Claude 代写进 README 并署名 / 网页解冲突合并 / 请作者 rebase）；合并后补徽章 / 为什么表 / 🆕 最近更新（157 → 158）
 - note: 10-21 规则调整：门槛见 CONTRIBUTING#收录门槛；暂缓仓见 recheck.md（每轮看到期行）；早 8 点到凌晨 2 点每 2h；promo 不再同步，README 首图用 scripts/banner.py 随数字重出（HTML 模板 assets/banner/banner.html），社交预览用不带数字的 social-card.png。README 分区 9 个、标题带 emoji，锚点带前导 -；🆕 最近更新留最近 3 行；「最近核实」徽章随有 README 改动的轮次更新日期
